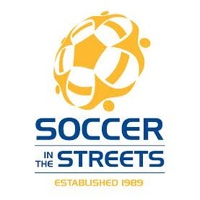
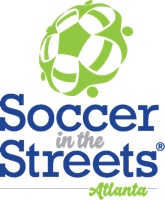
update sits image

diff --git a/nova/templates/index.html b/nova/templates/index.html
@@ -73,7 +73,7 @@
     <!--/Slider-->
 
     <!--Services-->
-    <!-- <section id="services">
+    <section id="services">
         <div class="container">
             <div class="row-fluid">
                 <div class="span9">
@@ -84,7 +84,7 @@
                 </div>
             </div>
         </div>
-    </section> -->
+    </section>
 
     <section class="main-info">
         <div class="container">
@@ -162,7 +162,7 @@
                                 <ul class="thumbnails">
                                     <li class="span3"><a href="https://fadoirishpub.com/atlanta/" target="_blank"><img src="{% static "images/partners/fado_partner.png" %}"></a></li>
                                     <li class="span3"><a href="http://www.jamiecarragher23.co.uk/cw/JC23/pages/23Foundation.htm" target="_blank"><img src="{% static "images/partners/23logo.png" %}"></a></li>
-                                    <li class="span3"><a href="http://www.worldsoccershop.com/" target="_blank"><img src="{% static "images/partners/worldsoccershop.jpg" %}"></a></li>
+                                    <li class="span3"><a href="http://www.soccerstreets.org/" target="_blank"><img src="{% static "images/partners/sits.jpg" %}"></a></li>
                                     <li class="span3"><a href="http://www.theanfieldwrap.com/" target="_blank"><img src="{% static "images/partners/tawlogo.png" %}"></a></li>
                                 </ul>
                             </div>
@@ -172,7 +172,7 @@
                             <div class="row-fluid">
                                 <ul class="thumbnails">
                                     <li class="span3"><a href="http://www.anfieldshop.com/" target="_blank"><img src="{% static "images/partners/anfieldshop.png" %}"></a></li>
-                                    <li class="span3"><a href="http://www.soccerstreets.org/" target="_blank"><img src="{% static "images/partners/sits.jpg" %}"></a></li>
+                                    <li class="span3"><a href="http://www.worldsoccershop.com/" target="_blank"><img src="{% static "images/partners/worldsoccershop.jpg" %}"></a></li>
                                     <li class="span3"><a href="http://www.stbaldricks.org/" target="_blank"><img src="{% static "images/partners/stbaldricks.png" %}"></a></li>
                                     <li class="span3"><a href="http://stores.thequeenspantry.com" target="_blank"><img src="{% static "images/partners/queenspantry.jpg" %}"></a></li>
                                 </ul>
